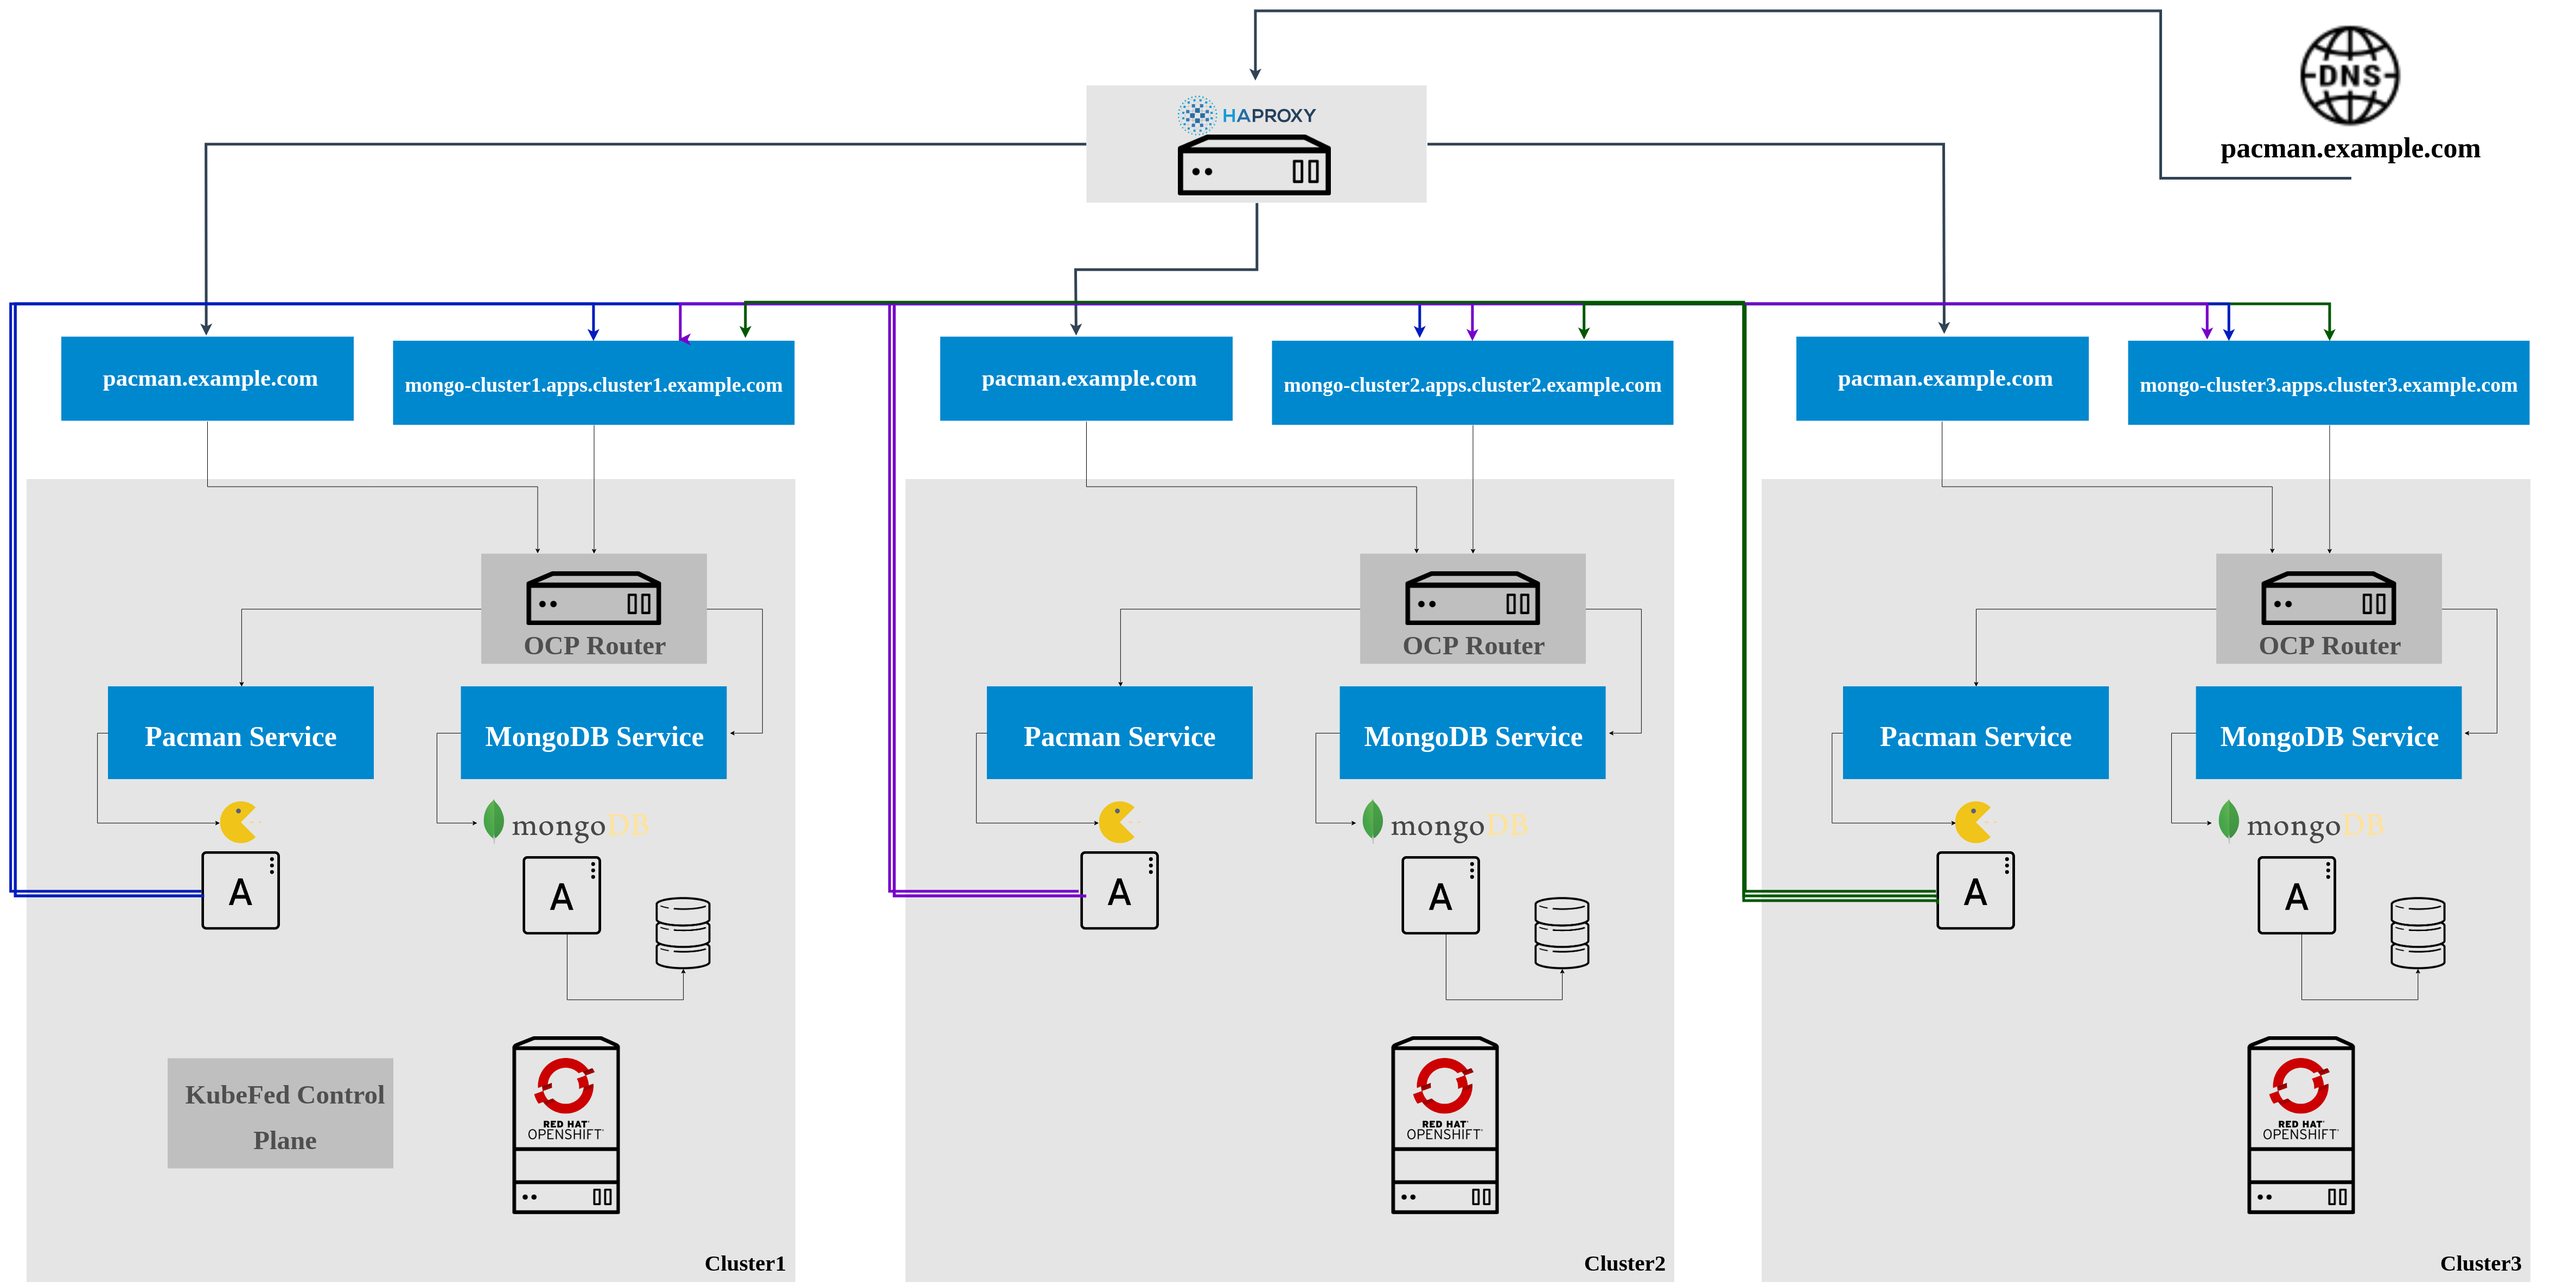
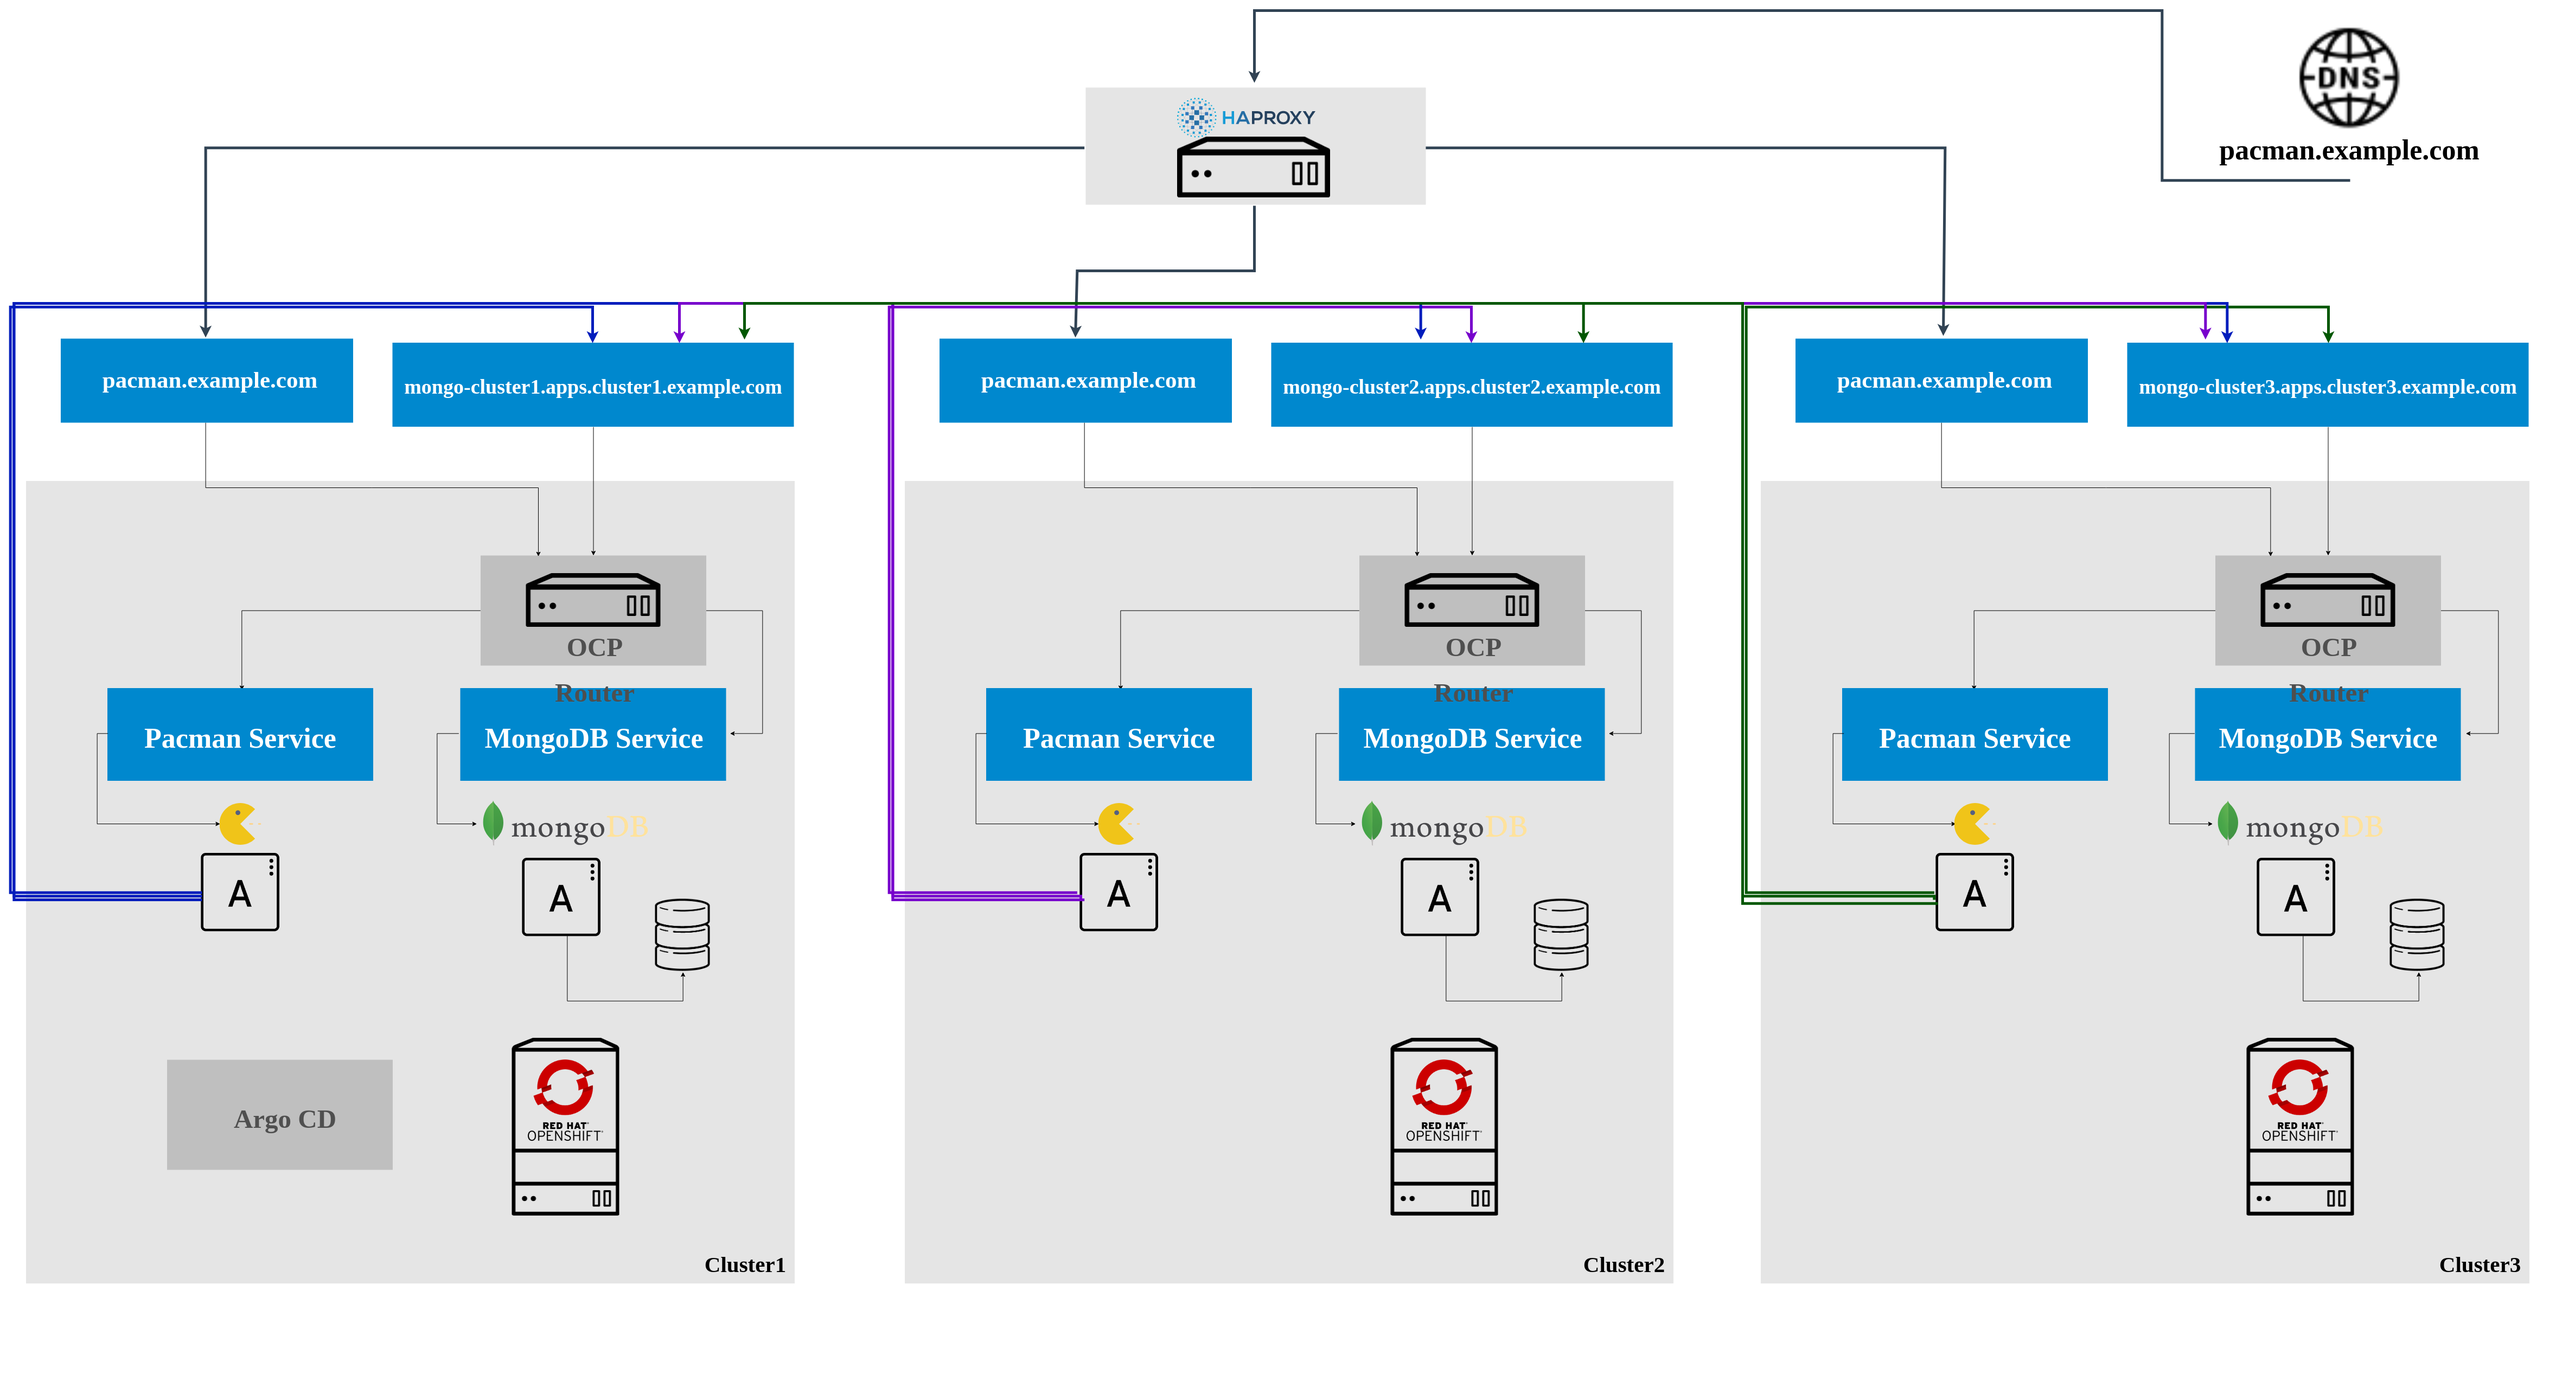
Updated Pacman Lab

diff --git a/labs/7.md b/labs/7.md
@@ -44,7 +44,7 @@ We are going to deploy the HAProxy server on one of the clusters (`cluster1`), t
     > **NOTE:** HAPROXY_LB_ROUTE is what the diagram shows as `pacman.example.com`
 
     ```sh
-    HAPROXY_LB_ROUTE=pacman-multicluster.$(oc --context=cluster1 -n openshift-console get route console -o jsonpath='{.status.ingress[*].host}' | sed "s/.*\(apps.*\)/\1/g")
+    HAPROXY_LB_ROUTE=pacman-multicluster.$(oc --context=cluster1 get ingresses.config.openshift.io cluster -o jsonpath='{ .spec.domain }')
     oc --context cluster1 -n haproxy-lb create route edge haproxy-lb --service=haproxy-lb-service --port=8080 --insecure-policy=Allow --hostname=${HAPROXY_LB_ROUTE}
     ```
     > **NOTE:** The HAProxy Route will be used as the Pacman application entry point. Since we want to have HA across clusters, we will be access Pacman application using our HAProxy rather than OpenShift Routes
@@ -52,10 +52,10 @@ We are going to deploy the HAProxy server on one of the clusters (`cluster1`), t
 
     ```sh
     # Export the required vars
-    PACMAN_INGRESS=pacman-ingress.$(oc --context=cluster1 -n openshift-console get route console -o jsonpath='{.status.ingress[*].host}' | sed "s/.*\(apps.*\)/\1/g")
-    PACMAN_CLUSTER1=pacman.$(oc --context=cluster1 -n openshift-console get route console -o jsonpath='{.status.ingress[*].host}' | sed "s/.*\(apps.*\)/\1/g")
-    PACMAN_CLUSTER2=pacman.$(oc --context=cluster2 -n openshift-console get route console -o jsonpath='{.status.ingress[*].host}' | sed "s/.*\(apps.*\)/\1/g")
-    PACMAN_CLUSTER3=pacman.$(oc --context=cluster3 -n openshift-console get route console -o jsonpath='{.status.ingress[*].host}' | sed "s/.*\(apps.*\)/\1/g")
+    PACMAN_INGRESS=pacman-ingress.$(oc --context=cluster1 get ingresses.config.openshift.io cluster -o jsonpath='{ .spec.domain }')
+    PACMAN_CLUSTER1=pacman.$(oc --context=cluster1 get ingresses.config.openshift.io cluster -o jsonpath='{ .spec.domain }')
+    PACMAN_CLUSTER2=pacman.$(oc --context=cluster2 get ingresses.config.openshift.io cluster -o jsonpath='{ .spec.domain }')
+    PACMAN_CLUSTER3=pacman.$(oc --context=cluster3 get ingresses.config.openshift.io cluster -o jsonpath='{ .spec.domain }')
     # Copy the sample configmap
     cp haproxy.tmpl haproxy
     # Update the HAProxy configuration
@@ -110,7 +110,7 @@ Now that the Mongo cluster has been configured, it is time to deploy the *pacman
 
 First, change to the directory of the Pacman demo folder.
 ~~~sh
-cd ~/federation-dev/labs/lab-7-assets/base
+cd ~/federation-dev/labs/lab-7-assets
 ~~~
 
 For the *pacman* application, the file `pacman-deployment-rs.yaml` needs to reflect the MongoDB endpoint. The MongoDB endpoint is used to save scores from the game.
@@ -120,43 +120,36 @@ Provide the value of the MongoDB server(s) to be used for the scores to be recor
 MONGO_CLUSTER1=$(oc --context=cluster1 -n mongo get route mongo -o jsonpath='{.status.ingress[*].host}')
 MONGO_CLUSTER2=$(oc --context=cluster2 -n mongo get route mongo -o jsonpath='{.status.ingress[*].host}')
 MONGO_CLUSTER3=$(oc --context=cluster3 -n mongo get route mongo -o jsonpath='{.status.ingress[*].host}')
-sed -i "s/replicamembershere/${MONGO_CLUSTER1},${MONGO_CLUSTER2},${MONGO_CLUSTER3}/g" 07-pacman-deployment-rs.yaml
+sed -i "s/replicamembershere/${MONGO_CLUSTER1},${MONGO_CLUSTER2},${MONGO_CLUSTER3}/g" base/pacman-deployment.yaml
 ~~~
 
 A value must be provided to be the publicly accessible address for the *pacman* application.
 ~~~sh
-PACMAN_INGRESS=pacman-ingress.$(oc --context=cluster1 -n openshift-console get route console -o jsonpath='{.status.ingress[*].host}' | sed "s/.*\(apps.*\)/\1/g")
-sed -i "s/pacmanhosthere/${PACMAN_INGRESS}/g" 03-pacman-ingress.yaml
+PACMAN_INGRESS=pacman-ingress.$(oc --context=cluster1 get ingresses.config.openshift.io cluster -o jsonpath='{ .spec.domain }')
+sed -i "s/pacmanhosthere/${PACMAN_INGRESS}/g" base/pacman-ingress.yaml
 ~~~
 
 1. Commit the files to the git repo
 
     ~~~sh
-    git commit -am 'values for mongo replicas and ingress'
+    git commit -am 'Values for MongoDB Replicas and Ingress Hostname'
     git push origin master
     ~~~
 
-2. Create the namespace in each cluster
-   ~~~sh
-   oc create ns pacman --context cluster1
-   oc create ns pacman --context cluster2
-   oc create ns pacman --context cluster3
-   ~~~
-
-3. We will deploy it on cluster1 and then run the same command against cluster2 and cluster3. We will use kustomize and overlays for creating the objects as we will be using the values to modify replica count and the image.
+2. We will deploy it on cluster1 and then run the same command against cluster2 and cluster3. We will use kustomize and overlays for creating the objects as we will be using the values to modify replica count and the image.
 
     ~~~sh
-    argocd app create --project default --name cluster1-pacman --repo http://$(oc --context cluster1 -n gogs get route gogs -o jsonpath='{.spec.host}')/student/federation-dev.git --path labs/lab-7-assets/overlays/cluster1 --dest-server $(argocd cluster list | grep cluster1 | awk '{print $1}') --dest-namespace pacman  --revision master  --sync-policy automated
+    argocd app create --project default --name cluster1-pacman --repo http://$(oc --context cluster1 -n gogs get route gogs -o jsonpath='{.spec.host}')/student/federation-dev.git --path labs/lab-7-assets/overlays/cluster1 --dest-server $(argocd cluster list | grep cluster1 | awk '{print $1}') --dest-namespace argocd --revision master --sync-policy automated
     ~~~
 
-4. Now that the cluster1 has the application defined the other two clusters need to be defined as well.
+3. Now that the cluster1 has the application defined the other two clusters need to be defined as well.
     ~~~sh
-    argocd app create --project default --name cluster2-pacman --repo http://$(oc --context cluster1 -n gogs get route gogs -o jsonpath='{.spec.host}')/student/federation-dev.git --path labs/lab-7-assets/overlays/cluster2 --dest-server $(argocd cluster list | grep cluster2 | awk '{print $1}')  --dest-namespace pacman  --revision master  --sync-policy automated
+    argocd app create --project default --name cluster2-pacman --repo http://$(oc --context cluster1 -n gogs get route gogs -o jsonpath='{.spec.host}')/student/federation-dev.git --path labs/lab-7-assets/overlays/cluster2 --dest-server $(argocd cluster list | grep cluster2 | awk '{print $1}') --dest-namespace argocd --revision master --sync-policy automated
     
-    argocd app create --project default --name cluster3-pacman --repo http://$(oc --context cluster1 -n gogs get route gogs -o jsonpath='{.spec.host}')/student/federation-dev.git --path labs/lab-7-assets/overlays/cluster3 --dest-server $(argocd cluster list | grep cluster3 | awk '{print $1}') --dest-namespace pacman  --revision master  --sync-policy automated
+    argocd app create --project default --name cluster3-pacman --repo http://$(oc --context cluster1 -n gogs get route gogs -o jsonpath='{.spec.host}')/student/federation-dev.git --path labs/lab-7-assets/overlays/cluster3 --dest-server $(argocd cluster list | grep cluster3 | awk '{print $1}') --dest-namespace argocd --revision master --sync-policy automated
     ~~~
 
-5. To help verify and speed up the deployment process we will use the sync command to verify that the items are deployed as expected.
+4. To help verify and speed up the deployment process we will use the sync command to verify that the items are deployed as expected.
 
     ~~~sh
     wait-for-argo-app cluster1-pacman
@@ -168,7 +161,7 @@ sed -i "s/pacmanhosthere/${PACMAN_INGRESS}/g" 03-pacman-ingress.yaml
     ~~~
 
 
-6. Validate the namespace exists in the three clusters.
+5. Validate the namespace exists in the three clusters.
     ~~~sh
     for i in cluster1 cluster2 cluster3; do oc get namespace pacman --context $i; done
 
@@ -181,7 +174,7 @@ sed -i "s/pacmanhosthere/${PACMAN_INGRESS}/g" 03-pacman-ingress.yaml
     ~~~
  
 
-7. Wait for the deployment to become ready
+6. Wait for the deployment to become ready
 
     ~~~sh
     for cluster in cluster1 cluster2 cluster3; do wait-for-deployment $cluster pacman pacman;done
